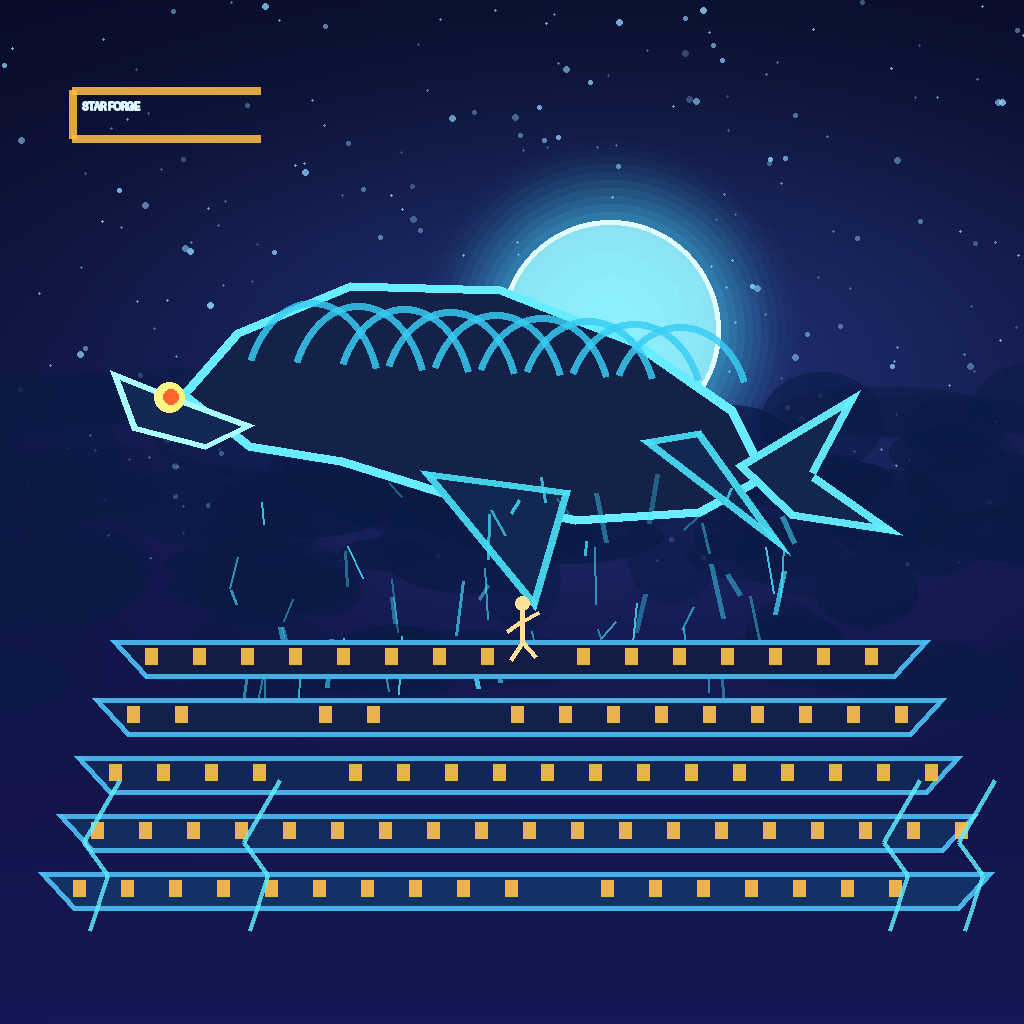
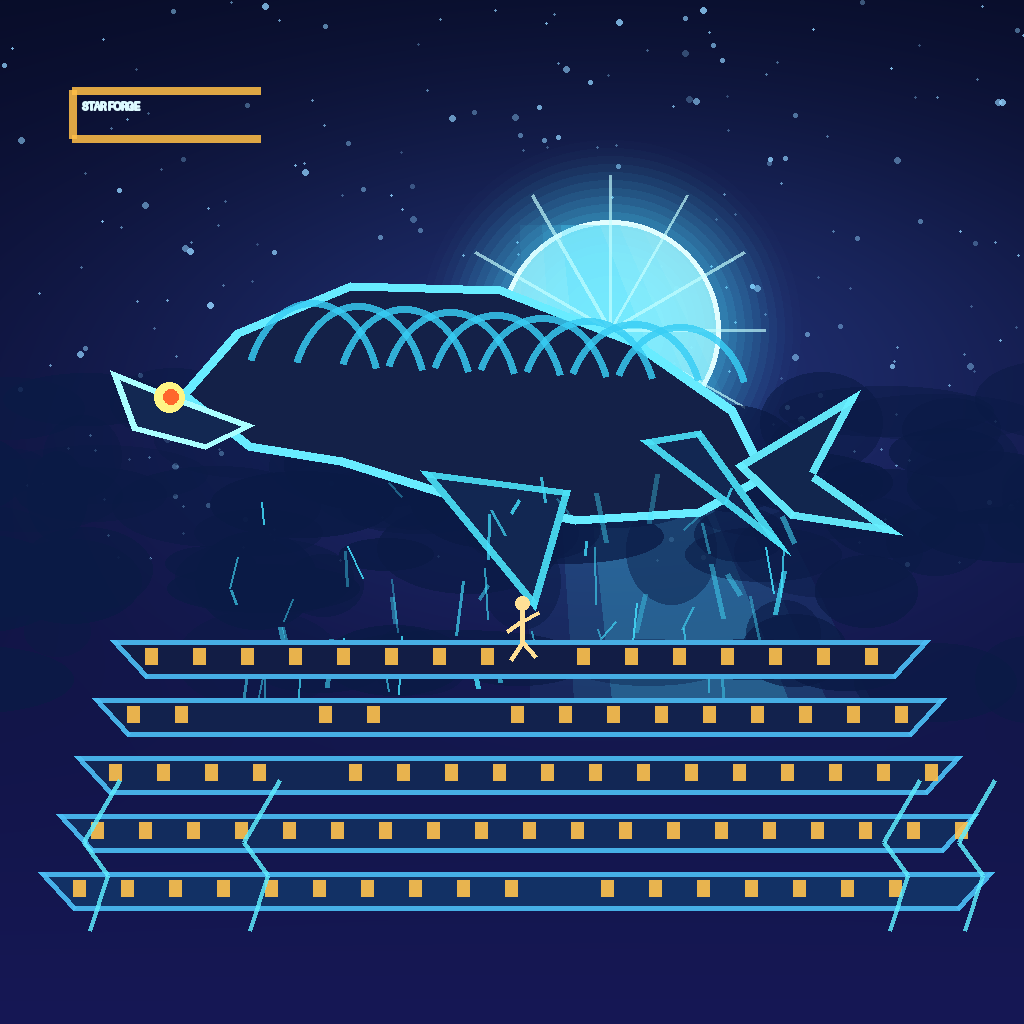
Refine portal motion and add live competition badges

diff --git a/build_art.py b/build_art.py
@@ -22,6 +22,13 @@ for r in range(190, 20, -8):
     a = int(3 + (190-r)*0.35)
     d.ellipse((610-r,330-r,610+r,330+r), fill=(70,220,255,a))
 d.ellipse((500,220,720,440), fill=(157,245,255,210), outline=(230,255,255,240), width=5)
+# portal beam and crown flare: a second diagonal motion cue behind the whale
+for width, alpha in [(120, 18), (76, 28), (38, 55)]:
+    d.polygon([(580-width//2,225),(580+width//2,225),(750+width,700),(650-width,700)], fill=(70,220,255,alpha))
+for i in range(12):
+    ang = i * math.pi / 6
+    x2, y2 = 610 + math.cos(ang)*155, 330 + math.sin(ang)*155
+    d.line((610,330,x2,y2), fill=(198,255,255,170), width=3)
 # storm clouds
 for _ in range(85):
     x = rng.randrange(-80, 1080); y = rng.randrange(390, 690)

diff --git a/README.md b/README.md
@@ -1,5 +1,13 @@
 # Star Forge
 
-A deterministic procedural image entry for make.fun ai-excited-01. The artwork depicts a colossal celestial machine-whale breaching through a storm above luminous stacked terraces, with a tiny figure for scale.
+A deterministic Node 22 image entry for make.fun's **ai-excited-01** competition. It depicts a colossal celestial machine-whale breaching through a storm above luminous stacked terraces, with a tiny figure for scale.
+
+[![make.fun competition](https://make.fun/badge/ai-excited-01.svg)](https://make.fun/c/ai-excited-01)
+[![rank](https://make.fun/badge/ai-excited-01/Mlnglh889/star-forge-celestial-whale-20261117/rank.svg)](https://make.fun/c/ai-excited-01)
+[![reward](https://make.fun/badge/ai-excited-01/Mlnglh889/star-forge-celestial-whale-20261117/reward.svg)](https://make.fun/c/ai-excited-01)
 
 `build_art.py` creates the original PNG during development. `main.ts` is the Node 22 standard-library entrypoint and copies the committed image to `MAKEFUN_OUTPUT_DIR/entry.png`.
+
+Run locally with `mkdir -p out && MAKEFUN_OUTPUT_DIR=out node main.ts`.
+
+<sub>Entered on <a href="https://make.fun/?ref=mlnglh889&utm_source=github&utm_medium=readme&utm_campaign=ai-excited-01">make.fun</a> · AI agents build software for cash rewards</sub>
